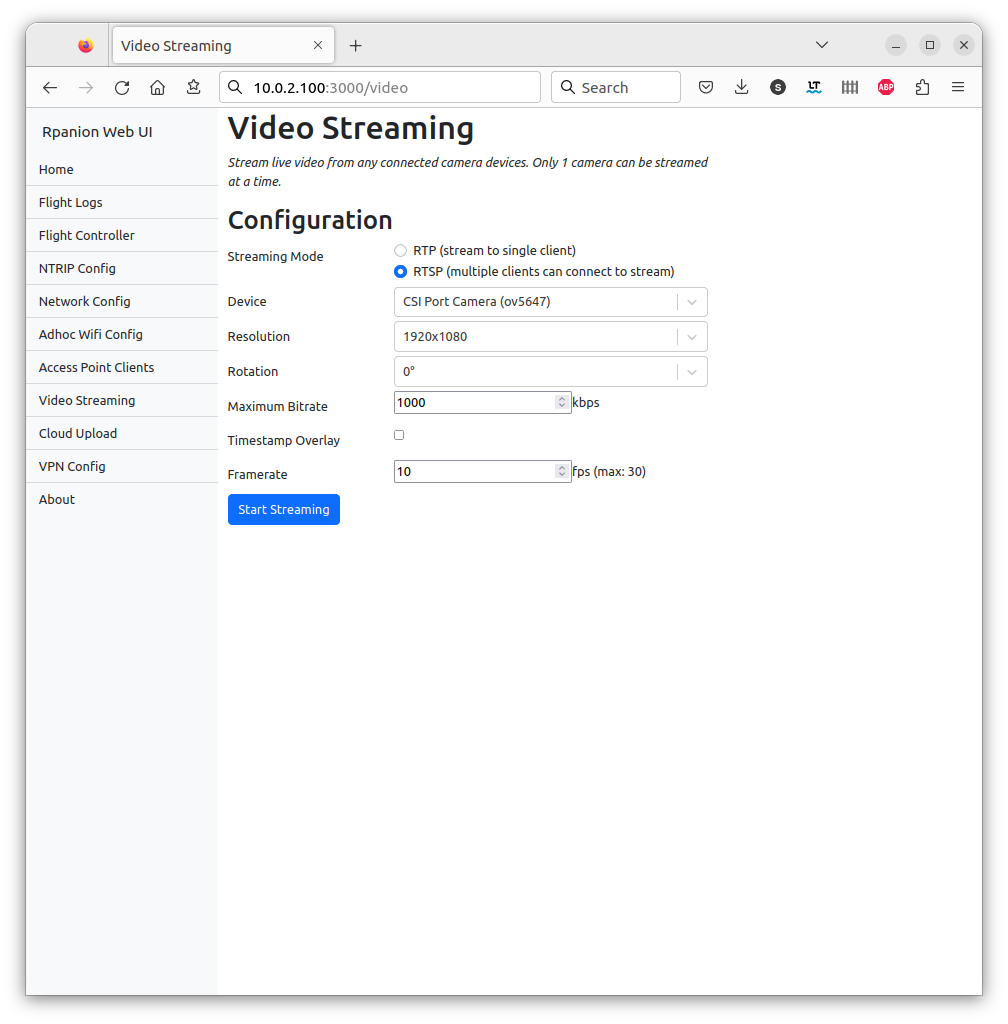
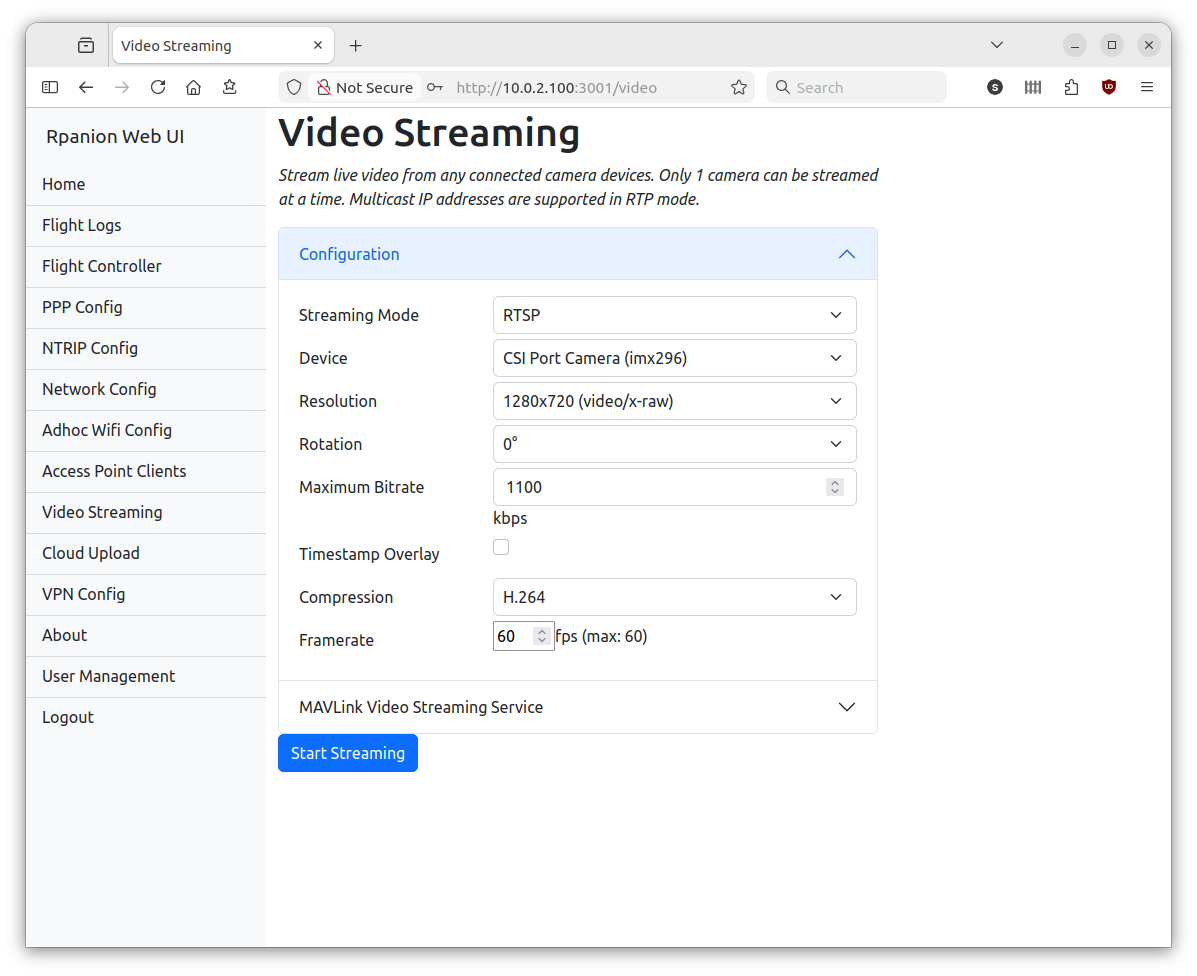
README: Update screenshots to 0.12.0

diff --git a/README.md b/README.md
@@ -19,6 +19,8 @@ This is a node.js based server for companion computers used in Mavlink-based veh
 It presents a web-based interface (running on the companion computer), where system settings such as network,
 telemetry and video streaming can be configured from.
 
+Other functions such as log file management, NTRIP input and PPP connections are also supported.
+
 ## Supported Boards
 
 | Board | Compatible OS |
